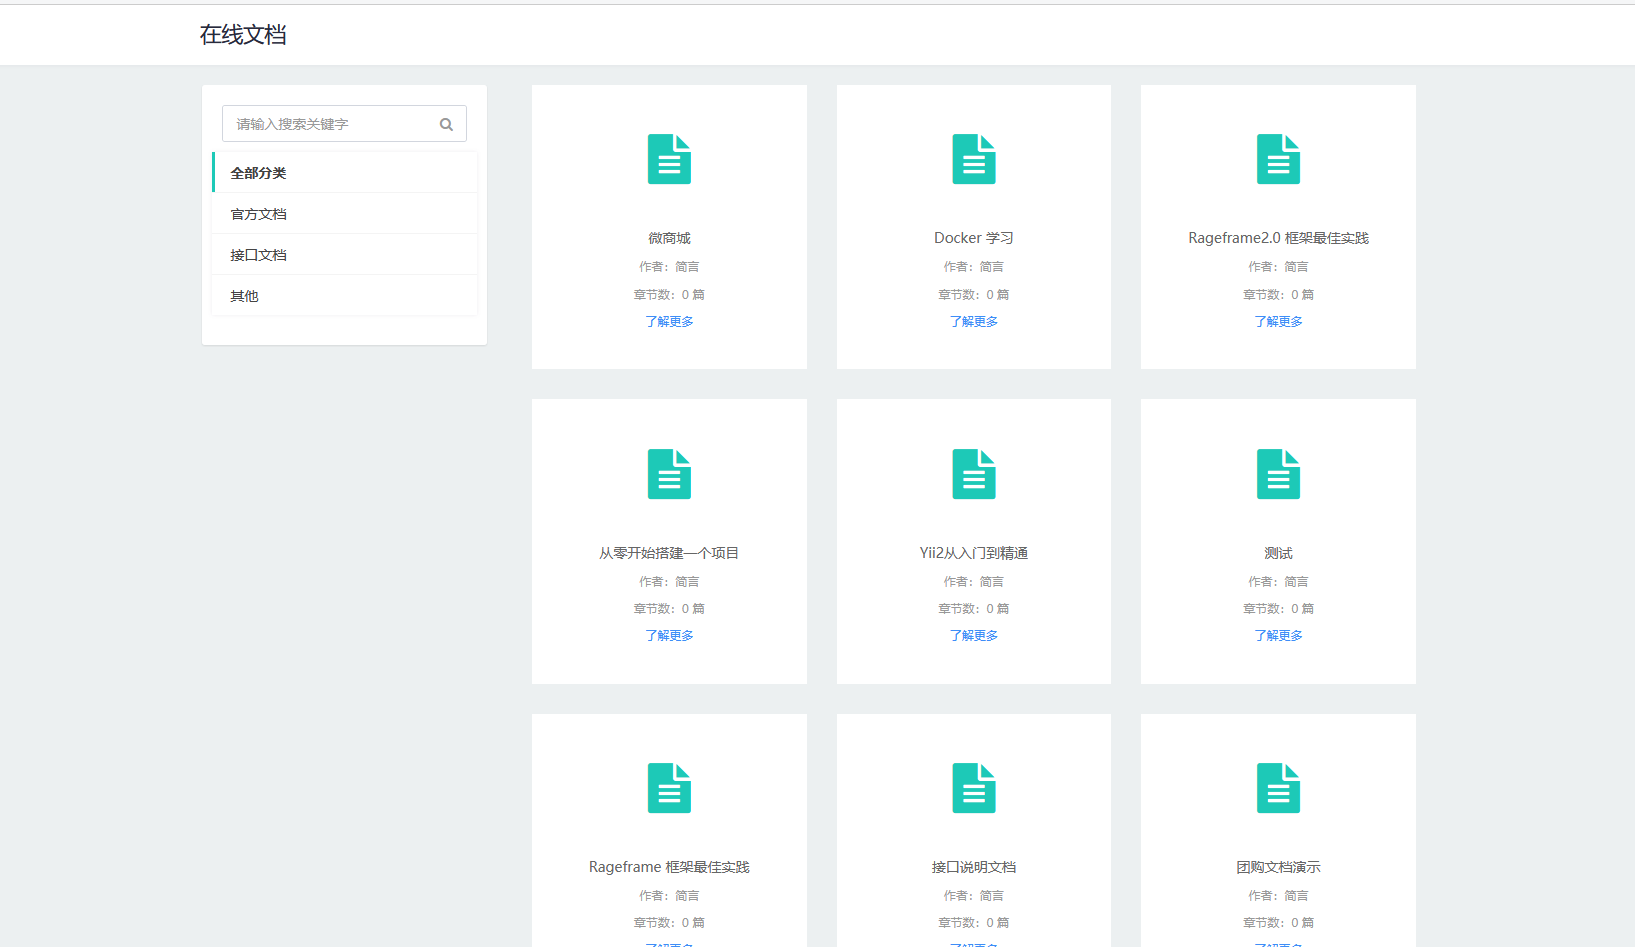
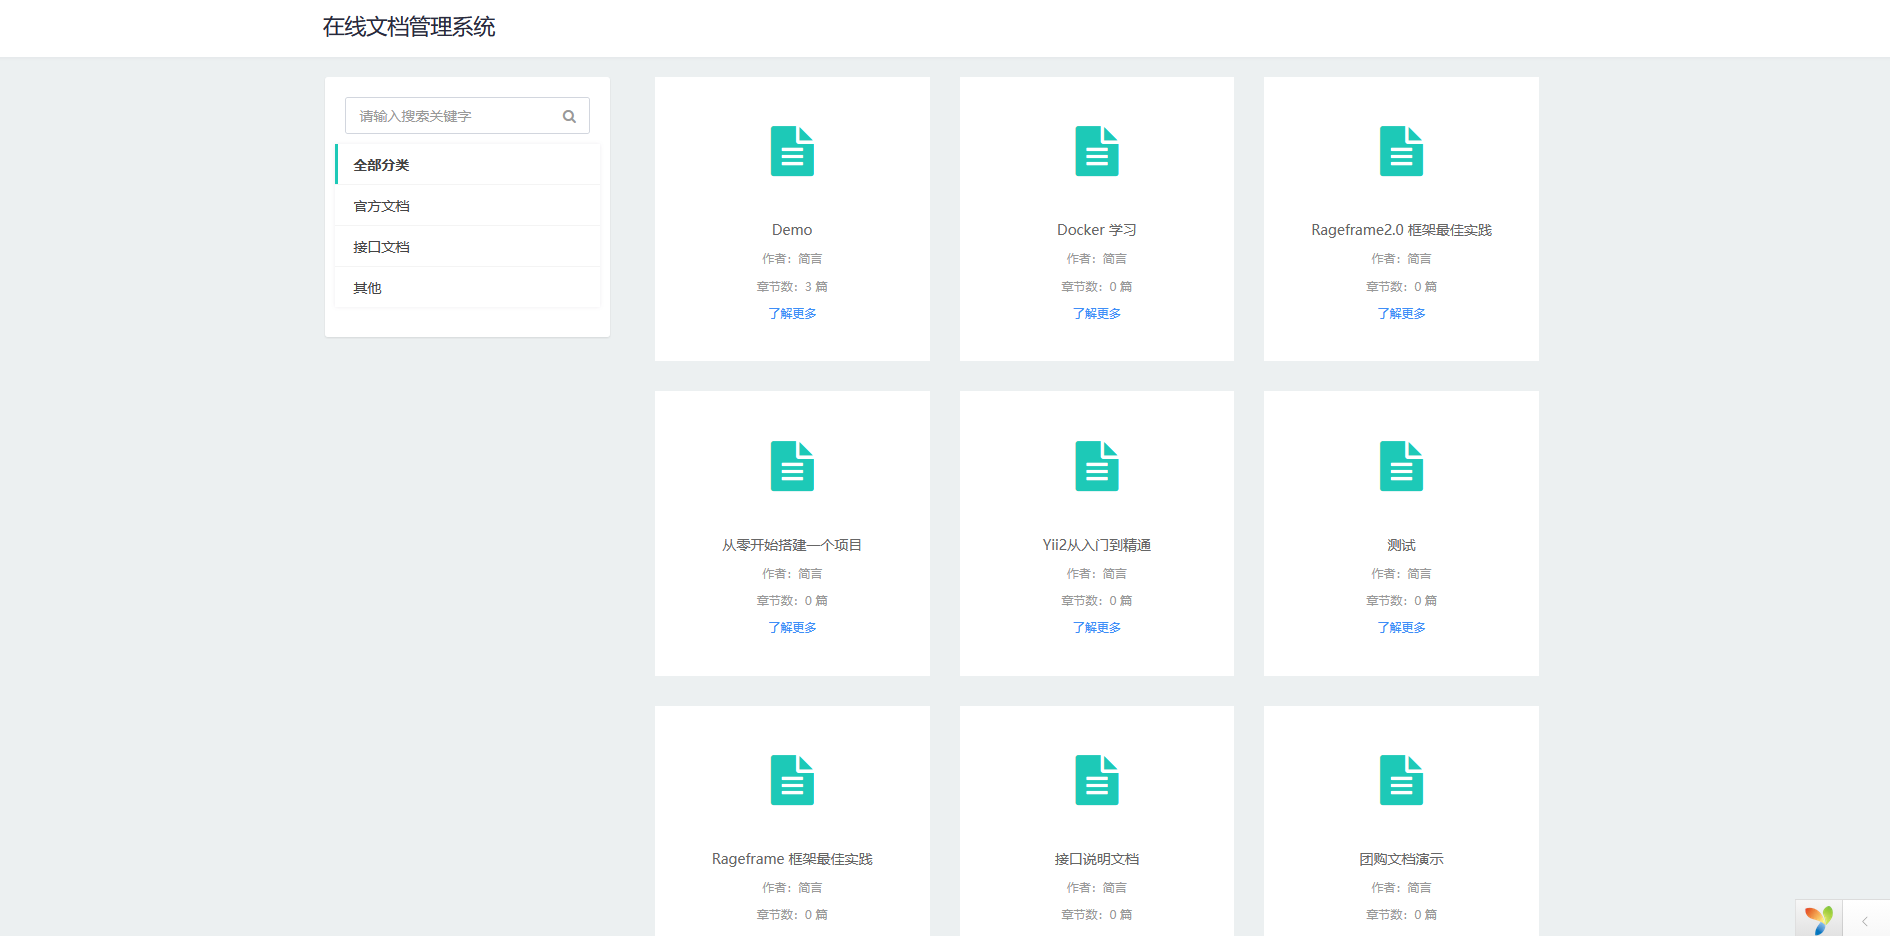
增加文档可自定义标题

diff --git a/frontend/views/content/index.php b/frontend/views/content/index.php
@@ -3,6 +3,7 @@
 use common\helpers\Html;
 use common\helpers\Url;
 use common\helpers\MarkdownHelper;
+use common\helpers\AddonHelper;
 
 $title = '';
 if (isset($defaultContent['title']) && !empty($defaultContent['title'])) {
@@ -16,6 +17,8 @@ if (!empty($title)) {
 }
 
 $this->title = Html::encode($this->title);
+
+$config = AddonHelper::getConfig();
 
 ?>
 
@@ -152,7 +155,7 @@ $this->title = Html::encode($this->title);
             </div>
             <div class="navbar-custom-menu">
                 <ul class="nav navbar-nav">
-                    <?php if (!empty($open_plaza)){ ?>
+                    <?php if (!empty($config['open_plaza'] ?? 1)){ ?>
                     <li class="dropdown">
                         <a href="<?= Url::to(['doc/index'])?>" data-method="post"><i class="fa fa fa-home"></i>首页</a>
                     </li>
@@ -190,7 +193,7 @@ $this->title = Html::encode($this->title);
             <!-- /.search form -->
             <!-- sidebar menu: : style can be found in sidebar.less -->
             <ul class="sidebar-menu" data-widget="tree">
-                <li class="header" data-rel="external">在线文档</li>
+                <li class="header" data-rel="external"><?= $config['title'] ?? '在线文档'; ?></li>
                 <?= $this->render('_menu-tree', [
                     'menus' => $menus,
                     'uuid' => $model['uuid'],

diff --git a/frontend/controllers/DocController.php b/frontend/controllers/DocController.php
@@ -18,6 +18,11 @@ use addons\RfOnlineDoc\common\models\Doc;
 class DocController extends BaseController
 {
     /**
+     * @var array
+     */
+    public $config;
+
+    /**
      * @throws UnauthorizedHttpException
      * @throws \yii\base\InvalidConfigException
      */
@@ -25,8 +30,8 @@ class DocController extends BaseController
     {
         parent::init();
 
-        $config = AddonHelper::getConfig();
-        if (isset($config['open_plaza']) && empty($config['open_plaza'])) {
+        $this->config = AddonHelper::getConfig();
+        if (isset($this->config['open_plaza']) && empty($this->config['open_plaza'])) {
             throw new UnauthorizedHttpException('广场已关闭');
         }
     }
@@ -58,6 +63,7 @@ class DocController extends BaseController
             'models' => $models,
             'pages' => $pages,
             'keyword' => $keyword,
+            'config' => $this->config,
             'cate_id' => $cate_id,
             'cates' => Yii::$app->docServices->cate->getMapList(),
         ]);

diff --git a/frontend/controllers/ContentController.php b/frontend/controllers/ContentController.php
@@ -66,17 +66,12 @@ class ContentController extends BaseController
         Doc::updateAllCounters(['view' => 1], ['id' => $model['id']]);
         !is_array($model['nav']) && $model['nav'] = Json::decode($model['nav']);
 
-        // 广场开启
-        $config = AddonHelper::getConfig();
-        $open_plaza = $config['open_plaza'] ?? 1;
-
         return $this->render($this->action->id, [
             'model' => $model,
             'versions' => Yii::$app->docServices->doc->getVersions($model),
             'menus' => $content,
             'keyword' => $keyword,
             'defaultContent' => $defaultContent,
-            'open_plaza' => $open_plaza
         ]);
     }
 

diff --git a/backend/views/doc/index.php b/backend/views/doc/index.php
@@ -88,7 +88,7 @@ $this->params['breadcrumbs'][] = $this->title;
                                     ]);
                                 },
                                 'content' => function ($url, $model, $key) {
-                                    return Html::linkButton(['content/index', 'doc_id' => $model['id']], '页面管理');
+                                    return Html::linkButton(['content/index', 'doc_id' => $model['id']], '章节管理');
                                 },
                                 'edit' => function ($url, $model, $key) {
                                     return Html::edit(['edit', 'id' => $model['id']]);

diff --git a/frontend/views/doc/index.php b/frontend/views/doc/index.php
@@ -3,7 +3,7 @@
 use common\helpers\Html;
 use common\helpers\Url;
 
-$this->title = "文档首页";
+$this->title = $config['title'] ?? '在线文档';
 
 ?>
 
@@ -109,7 +109,7 @@ $this->title = "文档首页";
                 <div class="col-lg-2"></div>
                 <div class="col-lg-10">
                     <div class="col-lg-12">
-                        <a href="<?= Url::to(['doc/index']); ?>" class="logo">在线文档</a>
+                        <a href="<?= Url::to(['doc/index']); ?>" class="logo"><?= $config['title'] ?? '在线文档'; ?></a>
                     </div>
                 </div>
             </div>

diff --git a/common/models/SettingForm.php b/common/models/SettingForm.php
@@ -10,6 +10,7 @@ use yii\base\Model;
  */
 class SettingForm extends Model
 {
+    public $title = '在线文档';
     public $ip;
     public $open_plaza = 1;
 
@@ -21,6 +22,7 @@ class SettingForm extends Model
         return [
             ['open_plaza', 'integer'],
             [['ip'], 'string', 'max' => 1000],
+            [['title'], 'string', 'max' => 100],
         ];
     }
 
@@ -31,6 +33,7 @@ class SettingForm extends Model
     {
         return [
             'ip' => 'ip 白名单',
+            'title' => '标题',
             'open_plaza' => '首页访问',
         ];
     }

diff --git a/backend/views/setting/display.php b/backend/views/setting/display.php
@@ -19,6 +19,7 @@ $this->params['breadcrumbs'][] = ['label' => $this->title];
             <div class="box-body">
                  <div class="col-sm-12">
                      <?= $form->field($model, 'open_plaza')->checkbox(); ?>
+                     <?= $form->field($model, 'title')->textInput(); ?>
                     <?= $form->field($model, 'ip')->textarea(['style' => [
                             'height' => '200px'
                     ]])->hint('多个 ip 换行显示, 不填为不限制。 支持通配符 *，例如：127.0.0.*'); ?>

diff --git a/backend/views/content/edit.php b/backend/views/content/edit.php
@@ -5,7 +5,7 @@ use common\enums\StatusEnum;
 
 $this->title = $model->isNewRecord ? '创建' : '编辑';
 $this->params['breadcrumbs'][] = ['label' => '文档管理', 'url' => ['doc/index']];
-$this->params['breadcrumbs'][] = ['label' => '页面管理', 'url' => ['index', 'doc_id' => $model->doc_id]];
+$this->params['breadcrumbs'][] = ['label' => '章节管理', 'url' => ['index', 'doc_id' => $model->doc_id]];
 $this->params['breadcrumbs'][] = $this->title;
 ?>
 

diff --git a/services/doc/ContentService.php b/services/doc/ContentService.php
@@ -32,10 +32,9 @@ class ContentService extends Service
             ->asArray()
             ->all();
 
+        $list = ArrayHelper::removeByValue($list, $id);
         $models = ArrayHelper::itemsMerge($list);
         $data = ArrayHelper::map(ArrayHelper::itemsMergeDropDown($models), 'id', 'title');
-
-        unset($data[$id]);
 
         return ArrayHelper::merge([0 => '顶级'], $data);
     }

diff --git a/backend/views/content/index.php b/backend/views/content/index.php
@@ -3,7 +3,7 @@
 use common\helpers\Html;
 use jianyan\treegrid\TreeGrid;
 
-$this->title = '页面管理';
+$this->title = '章节管理';
 $this->params['breadcrumbs'][] = ['label' => '文档管理', 'url' => ['doc/index']];
 $this->params['breadcrumbs'][] = ['label' => $this->title];
 ?>

diff --git a/common/config/backend.php b/common/config/backend.php
@@ -46,5 +46,13 @@ return [
 
             ],
         ],
+        [
+            'title' => '行为记录',
+            'route' => 'action/index',
+            'icon' => '',
+            'params' => [
+
+            ],
+        ],
     ],
 ];
